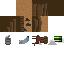
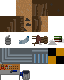
added more mp3 files for sfx and updated map

diff --git a/core/assets/tilemap_wasteland.tsx b/core/assets/tilemap_wasteland.tsx
@@ -1,4 +1,4 @@
 <?xml version="1.0" encoding="UTF-8"?>
-<tileset version="1.2" tiledversion="1.2.4" name="tilemap_wasteland" tilewidth="16" tileheight="16" tilecount="16" columns="4">
- <image source="tilemap_wasteland.png" width="64" height="64"/>
+<tileset version="1.2" tiledversion="1.2.4" name="tilemap_wasteland" tilewidth="16" tileheight="16" tilecount="20" columns="4">
+ <image source="../../../tilemap_wasteland.png" width="64" height="80"/>
 </tileset>
